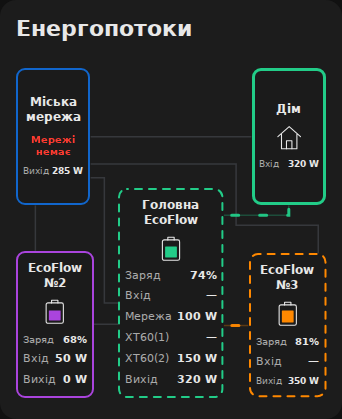
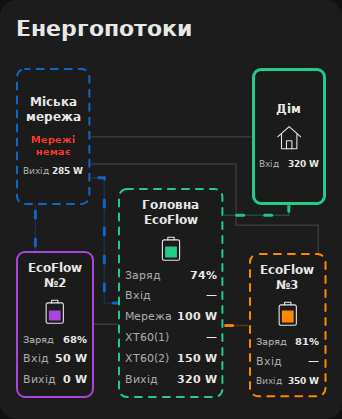
Release 2.0.4: grid sensor controls warning only

diff --git a/suris-ecoflow-flow-card.js b/suris-ecoflow-flow-card.js
@@ -1,8 +1,8 @@
-/* Suris EcoFlow Flow Card v2.0.3 | MIT | No external dependencies. */
+/* Suris EcoFlow Flow Card v2.0.4 | MIT | No external dependencies. */
 (() => {
   'use strict';
   const TAG = 'suris-ecoflow-flow-card';
-  const VERSION = '2.0.3';
+  const VERSION = '2.0.4';
   const NS = 'http://www.w3.org/2000/svg';
   let cardSequence = 0;
   const DEFAULTS = {
@@ -22,16 +22,16 @@
   Object.assign(TEXT.uk, { voltage: 'Напруга' });
   Object.assign(TEXT.en, { voltage: 'Voltage' });
   Object.assign(TEXT.uk, {
-    gridOff: 'Мережі немає', outputSource: 'За виходом головної EcoFlow', gridSource: 'За датчиком наявності мережі',
-    gridHint: 'Датчик необов’язковий. Якщо мережі немає, усередині її блоку блимає червоний напис «Мережі немає». Без датчика попередження приховане.',
-    sourceHint: 'За виходом головної EcoFlow: потужність виходу на дім вище порогу — дім від EcoFlow, нижче або рівна порогу — від мережі. Датчик мережі показує її стан окремо. За датчиком мережі: збережена попередня логіка. Без нього використовується вихід головної станції. Недоступна потужність не визначає джерело.',
+    gridOff: 'Мережі немає',
+    gridHint: 'Датчик необов’язковий. Якщо мережі немає, усередині її блоку блимає червоний напис «Мережі немає». Без датчика попередження приховане. Цей датчик не керує потоками.',
+    sourceHint: 'За виходом головної EcoFlow: потужність виходу на дім вище порогу — дім від EcoFlow, нижче або рівна порогу — від мережі. Датчик мережі керує лише червоним написом та не впливає на потоки. Недоступна потужність не визначає джерело.',
     setup: 'Вибери датчик виходу головної EcoFlow на дім або її загального виходу',
     mainHint: 'Для лінії мережа → головна EcoFlow потрібна окрема потужність AC-входу. Для визначення джерела дому за виходом вибери вихід на дім; загальний вихід підходить, лише якщо станція живить тільки дім.'
   });
   Object.assign(TEXT.en, {
-    gridOff: 'No grid', outputSource: 'Main EcoFlow output', gridSource: 'Grid availability sensor',
-    gridHint: 'The sensor is optional. When grid power is absent, a red No grid message pulses inside its block. Without a sensor the warning stays hidden.',
-    sourceHint: 'Main EcoFlow output: home feed power above the threshold selects EcoFlow; at or below the threshold selects grid. The grid sensor shows its status separately. Grid availability sensor retains the previous source logic; without it, main output is used. An unavailable output leaves the source unknown.',
+    gridOff: 'No grid',
+    gridHint: 'The sensor is optional. When grid power is absent, a red No grid message pulses inside its block. Without a sensor the warning stays hidden. This sensor never controls flows.',
+    sourceHint: 'Main EcoFlow output: home feed power above the threshold selects EcoFlow; at or below the threshold selects grid. The grid sensor only controls the red warning and never affects flows. An unavailable output leaves the source unknown.',
     setup: 'Select the main EcoFlow home feed or total output power sensor',
     mainHint: 'Grid → main EcoFlow requires a separate AC input sensor. For output-based home source detection, select the home feed output; total output is suitable only when the station supplies the home alone.'
   });
@@ -42,7 +42,7 @@
       if (config[key] != null && (typeof config[key] !== 'object' || Array.isArray(config[key]))) throw new Error(`${key} must be an object`);
       result[key] = { ...DEFAULTS[key], ...config[key] };
     }
-    result.home.source_mode ||= result.grid.available_entity ? 'grid' : 'output';
+    delete result.home.source_mode; // Legacy source modes never control flows.
     if (config.consumers != null && !Array.isArray(config.consumers)) throw new Error('Consumers must be a list');
     if ((config.consumers || []).length > 20) throw new Error('Maximum 20 consumers');
     const ids = new Set();
@@ -63,7 +63,6 @@
     const result = draftConfig(config), a = result.appearance;
     result.title ??= DEFAULTS.title;
     result.language = result.language === 'en' ? 'en' : 'uk';
-    if (!['grid', 'output'].includes(result.home.source_mode)) throw new Error('Home source mode must be grid or output');
     for (const key of ['grid', 'auxiliary_1', 'auxiliary_2', 'main', 'home']) result[key].name ||= DEFAULTS[key].name;
     const number = (key) => a[key] == null || a[key] === '' ? DEFAULTS.appearance[key] : Number(a[key]);
     a.threshold = number('threshold'); a.duration = number('duration');
@@ -123,18 +122,12 @@
     const gridAvailability = !c.grid.available_entity ? 'not_configured'
       : usableGrid && String(gridState) === availableState ? 'available'
         : usableGrid && (absentState ? String(gridState) === absentState : true) ? 'absent' : 'unknown';
-    const useGridSource = c.home.source_mode !== 'output' && !!c.grid.available_entity;
-    const source = useGridSource
-      ? gridAvailability === 'available' ? 'grid' : gridAvailability === 'absent' ? 'main' : 'unknown'
-      : feedPower != null && feedPower >= 0 ? positive(feedPower) ? 'main' : 'grid' : 'unknown';
+    const source = feedPower != null && feedPower >= 0 ? positive(feedPower) ? 'main' : 'grid' : 'unknown';
     const gridCharging = [
       p(c.auxiliary_1.grid_charge_power || c.auxiliary_1.input_power),
       p(c.auxiliary_2.grid_charge_power || c.auxiliary_2.input_power),
       main.ac
     ];
-    // Charging can continue while the main station supplies Home in automatic mode.
-    const gridAvailable = useGridSource ? gridAvailability === 'available'
-      : gridAvailability !== 'absent' && (source === 'grid' || positive(p(c.grid.power)) || gridCharging.some(positive));
     let homePower = p(c.home.power);
     let powerOrigin = c.home.power ? 'sensor' : 'unknown';
     if (!c.home.power && source === 'main') {
@@ -153,12 +146,12 @@
       grid_home: homePower, main_home: homePower
     };
     const flows = {
-      grid_auxiliary_1: gridAvailable && positive(flow_power.grid_auxiliary_1),
-      grid_auxiliary_2: gridAvailable && positive(flow_power.grid_auxiliary_2),
-      grid_main: gridAvailable && positive(main.ac),
+      grid_auxiliary_1: positive(flow_power.grid_auxiliary_1),
+      grid_auxiliary_2: positive(flow_power.grid_auxiliary_2),
+      grid_main: positive(main.ac),
       auxiliary_1_main: positive(flow_power.auxiliary_1_main),
       auxiliary_2_main: positive(flow_power.auxiliary_2_main),
-      grid_home: gridAvailable && source === 'grid' && positive(homePower),
+      grid_home: source === 'grid' && positive(homePower),
       main_home: source === 'main' && positive(homePower)
     };
     return { main, auxiliary_1, auxiliary_2, grid: { output: p(c.grid.power), availability: gridAvailability }, home: { power: homePower, voltage: readNumber(states, c.home.voltage), source, power_origin: powerOrigin }, consumers: (c.consumers || []).map(consumer => ({ ...consumer, entity: consumer.power, power: p(consumer.power) })), flows, flow_power };
@@ -328,7 +321,7 @@
         battery.querySelector('.battery-unknown').style.display = known ? 'none' : '';
       }
       const status = this.shadowRoot.querySelector('.status');
-      status.textContent = data.home.source === 'unknown' ? c.home.source_mode !== 'output' && c.grid.available_entity ? text.mismatch : text.setup : '';
+      status.textContent = data.home.source === 'unknown' ? text.setup : '';
       const homeColor = data.home.source === 'unknown' ? 'var(--divider-color,#60656d)' : `var(--flow-${data.home.source})`;
       this.style.setProperty('--flow-home', homeColor); this._nodes.home.style.setProperty('--node-color', homeColor); this._borders.home.style.setProperty('--node-color', homeColor);
       this._renderConsumers(); this._drawPaths(); this._syncFlows();
@@ -499,8 +492,8 @@
     uk: { title: 'Заголовок', language: 'Мова', name: 'Назва', power: 'Потужність', input_power: 'Загальна вхідна потужність', output_power: 'Загальна вихідна потужність', soc: 'Заряд батареї (%)', ac_input_power: 'Потужність входу від міської мережі (AC)', solar_input_power: 'Потужність входу XT60(1) (DC)', solar_input_power_2: 'Потужність входу XT60(2) (DC)', grid_charge_power: 'Потужність заряджання від мережі (необов’язково)', transfer_power: 'Потужність передачі на головну EcoFlow (необов’язково)', home_feed_power: 'Потужність виходу на дім (необов’язково)', available_entity: 'Наявність міської мережі', available_state: 'Стан «мережа є»', source_entity: 'Сутність джерела живлення дому', grid_state: 'Стан «дім від міської мережі»', main_state: 'Стан «дім від головної EcoFlow»', grid_color: 'Колір мережі: рамка та потоки', auxiliary_1_color: 'Колір EcoFlow №2: рамка та потік', auxiliary_2_color: 'Колір EcoFlow №3: рамка та потік', solar_color: 'Колір передачі між станціями', main_color: 'Колір головної EcoFlow: рамка та потік', threshold: 'Поріг активного потоку (Вт)', duration: 'Базовий час руху (с)' },
     en: { title: 'Title', language: 'Language', name: 'Name', power: 'Power', input_power: 'Total input power', output_power: 'Total output power', soc: 'Battery charge (%)', ac_input_power: 'City grid input power (AC)', solar_input_power: 'XT60(1) input power (DC)', solar_input_power_2: 'XT60(2) input power (DC)', grid_charge_power: 'Grid charging power (optional)', transfer_power: 'Transfer power to main EcoFlow (optional)', home_feed_power: 'Output power to home (optional)', available_entity: 'Grid availability', available_state: 'Grid available state', source_entity: 'Home power source entity', grid_state: 'State: home powered by grid', main_state: 'State: home powered by main EcoFlow', grid_color: 'Grid border and flow color', auxiliary_1_color: 'EcoFlow #2 border and flow color', auxiliary_2_color: 'EcoFlow #3 border and flow color', solar_color: 'Station transfer color', main_color: 'Main EcoFlow border and flow color', threshold: 'Active flow threshold (W)', duration: 'Base movement time (s)' }
   };
-  Object.assign(FIELD_LABELS.uk, { voltage: 'Напруга дому (необов’язково)', available_entity: 'Наявність міської мережі (необов’язково)', source_mode: 'Визначення джерела живлення дому' });
-  Object.assign(FIELD_LABELS.en, { voltage: 'Home voltage (optional)', available_entity: 'Grid availability (optional)', source_mode: 'Home source detection' });
+  Object.assign(FIELD_LABELS.uk, { voltage: 'Напруга дому (необов’язково)', available_entity: 'Наявність міської мережі (необов’язково)' });
+  Object.assign(FIELD_LABELS.en, { voltage: 'Home voltage (optional)', available_entity: 'Grid availability (optional)' });
   const entityField = (name, power = true) => ({ name, selector: { entity: power ? { domain: 'sensor' } : {} } });
   const textField = (name) => ({ name, selector: { text: {} } });
   const rgbToHsl = hex => {
@@ -619,7 +612,7 @@
         ['auxiliary_1', c.auxiliary_1.name || DEFAULTS.auxiliary_1.name, [...stationSchema, entityField('grid_charge_power'), entityField('transfer_power')], text.auxHint],
         ['auxiliary_2', c.auxiliary_2.name || DEFAULTS.auxiliary_2.name, [...stationSchema, entityField('grid_charge_power'), entityField('transfer_power')], text.auxHint],
         ['main', text.main, [...stationSchema, entityField('ac_input_power'), entityField('solar_input_power'), entityField('solar_input_power_2'), entityField('home_feed_power')], text.mainHint],
-        ['home', text.home, [textField('name'), { name: 'source_mode', selector: { select: { options: [{ value: 'output', label: text.outputSource }, { value: 'grid', label: text.gridSource }], mode: 'dropdown' } } }, entityField('power'), { name: 'voltage', selector: { entity: { domain: 'sensor', device_class: 'voltage' } } }], `${text.sourceHint} ${text.homeDerived}`],
+        ['home', text.home, [textField('name'), entityField('power'), { name: 'voltage', selector: { entity: { domain: 'sensor', device_class: 'voltage' } } }], `${text.sourceHint} ${text.homeDerived}`],
         ['appearance', c.language === 'en' ? 'Flow appearance' : 'Вигляд потоків', [textField('grid_color'), textField('auxiliary_1_color'), textField('auxiliary_2_color'), textField('main_color'), { name: 'threshold', selector: { number: { min: 0, max: 1000, step: 1, mode: 'box', unit_of_measurement: text.watts } } }, { name: 'duration', selector: { number: { min: .5, max: 20, step: .5, mode: 'box', unit_of_measurement: 's' } } }], `${text.flowHint} ${c.language === 'en' ? 'Open a color below to choose a swatch or mix hue, saturation and brightness. Each source color applies to its border and outgoing flows. Home uses its active source color. Colors: red, green, #ff0000, rgb(255, 0, 0), hsl(120, 100%, 25%). An empty field restores the default color.' : 'Відкрий колір нижче, щоб обрати зразок або змішати відтінок, насиченість і яскравість. Колір джерела застосовується до його рамки та вихідних потоків. Рамка дому має колір активного джерела. Кольори: red, green, #ff0000, rgb(255, 0, 0), hsl(120, 100%, 25%). Порожнє поле повертає типовий колір.'}`]
       ];
       for (const consumer of c.consumers) sections.push([`consumer:${consumer.id}`, consumer.name || text.consumer, [textField('name'), entityField('power'), { name: 'icon', selector: { icon: {} } }, textField('color')], '']);

diff --git a/demo.html b/demo.html
@@ -1,5 +1,5 @@
 <!doctype html>
-<html lang="uk"><head><meta charset="utf-8"><meta name="viewport" content="width=device-width,initial-scale=1"><title>Suris EcoFlow Flow Card 2.0.3 — Demo</title>
+<html lang="uk"><head><meta charset="utf-8"><meta name="viewport" content="width=device-width,initial-scale=1"><title>Suris EcoFlow Flow Card 2.0.4 — Demo</title>
 <style>body{margin:20px auto;padding:0 12px;max-width:1060px;background:#111;color:#eee;font:16px system-ui;--ha-card-background:#1c1c1c;--primary-text-color:#eee;--secondary-text-color:#aaa;--divider-color:#535861}nav{display:flex;gap:8px;flex-wrap:wrap;margin:16px 0}button{background:#222;border:1px solid #666;color:#eee;padding:10px 14px;border-radius:8px;cursor:pointer}button:focus-visible{outline:2px solid #27d9d5}p{color:#aaa;font-size:13px}</style>
 </head><body><nav><button data-mode="main">Дім від EcoFlow</button><button data-mode="aux3">Передача EcoFlow №3</button><button data-mode="grid">Дім від мережі</button><button data-mode="charging">Заряджання від мережі</button><button data-mode="replace">Заміна сильнішим приладом</button><button data-mode="single">Один ряд приладів</button><button data-mode="idle">Прилади вимкнені</button><button data-mode="unknown">Джерело недоступне</button></nav><suris-ecoflow-flow-card></suris-ecoflow-flow-card><p>Демонстраційні показники. Для встановлення відкрий README.md.</p>
 <script src="./suris-ecoflow-flow-card.js"></script><script>

diff --git a/README.md b/README.md
@@ -1,8 +1,8 @@
-# Suris EcoFlow Flow Card 2.0.3
+# Suris EcoFlow Flow Card 2.0.4
 
-[English guide](README_EN.md) · [Завантажити 2.0.3](https://github.com/Suris2009/suris-ecoflow-flow-card/releases/tag/v2.0.3) · [Попередня 0.1.12](https://github.com/Suris2009/suris-ecoflow-flow-card/releases/tag/v0.1.12)
+[English guide](README_EN.md) · [Завантажити 2.0.4](https://github.com/Suris2009/suris-ecoflow-flow-card/releases/tag/v2.0.4) · [Попередня 0.1.12](https://github.com/Suris2009/suris-ecoflow-flow-card/releases/tag/v0.1.12)
 
-**Стабільний випуск 2.0.3.** Оновлення з версії 1 та бет версії 2 зберігає налаштування картки.
+**Стабільний випуск 2.0.4.** Оновлення з версії 1 та бет версії 2 зберігає налаштування картки.
 
 Картка Home Assistant із візуальним редактором сутностей. Міська мережа ліворуч, дім праворуч, головна EcoFlow знизу між двома допоміжними станціями. Зверху — до шести активних індивідуальних споживачів із найбільшою потужністю, без гортання. Висота автоматично зменшується, коли один або обидва ряди не потрібні. Значення потужності містяться у квадратних блоках; на лініях лише рух потоку. Працює локально, без сторонніх бібліотек, CDN та збірки.
 
@@ -40,7 +40,7 @@
 
 1. Відкрий **HACS → ⋮ → Користувацькі репозиторії**.
 2. Додай `https://github.com/Suris2009/suris-ecoflow-flow-card`, тип **Dashboard / Панель огляду** (у старих версіях — **Lovelace / Plugin**).
-3. Знайди **Suris EcoFlow Flow Card** та завантаж **2.0.3**. Якщо картка вже встановлена, відкрий її в HACS і встанови доступне оновлення.
+3. Знайди **Suris EcoFlow Flow Card** та завантаж **2.0.4**. Якщо картка вже встановлена, відкрий її в HACS і встанови доступне оновлення.
 4. Онови сторінку Home Assistant. Якщо ресурс не додано автоматично, додай `/hacsfiles/suris-ecoflow-flow-card/suris-ecoflow-flow-card.js` як **JavaScript module** у ресурсах панелей огляду.
 5. На панелі натисни **Редагувати → Додати картку → Suris EcoFlow Flow Card** і вибери сутності у візуальному редакторі.
 
@@ -50,7 +50,7 @@
 
 1. Скопіюй `suris-ecoflow-flow-card.js` до папки `www` у каталозі конфігурації Home Assistant. Через Studio Code Server це зазвичай `/config/www`; в окремих версіях середовища каталог може відображатися як `/homeassistant/www`. Використовуй той каталог, у якому розташований `configuration.yaml`. Можна скористатися Samba або завантаженням файлу в редакторі. Якщо папку `www` щойно створено вперше, перезапусти Home Assistant.
 2. Відкрий **Налаштування → Панелі огляду → ⋮ → Ресурси → Додати ресурс**. Якщо «Ресурси» не видно, увімкни розширений режим у профілі користувача.
-3. URL: `/local/suris-ecoflow-flow-card.js?v=2.0.3`. Тип: **JavaScript module**.
+3. URL: `/local/suris-ecoflow-flow-card.js?v=2.0.4`. Тип: **JavaScript module**.
 4. Онови сторінку Home Assistant. За потреби очисть кеш інтерфейсу в застосунку.
 5. На панелі огляду натисни **Редагувати → Додати картку**, знайди **Suris EcoFlow Flow Card**.
 6. Вибери сутності у візуальному редакторі. YAML не потрібен.
@@ -91,7 +91,7 @@ consumers:
 
 ## Оновлення з версії 1 або бети та повернення назад
 
-Онови ресурс картки до **2.0.3**, потім перезавантаж інтерфейс Home Assistant. Тип `custom:suris-ecoflow-flow-card` не змінюється; назви, сутності, кольори та швидкість станцій зберігаються. Не створюй нову картку і не додавай другий JS-ресурс. Після оновлення з версії 1 додай прилади через редактор. Якщо оновлюєшся з бети версії 2, уже налаштовані прилади також зберігаються.
+Онови ресурс картки до **2.0.4**, потім перезавантаж інтерфейс Home Assistant. Тип `custom:suris-ecoflow-flow-card` не змінюється; назви, сутності, кольори та швидкість станцій зберігаються. Не створюй нову картку і не додавай другий JS-ресурс. Після оновлення з версії 1 додай прилади через редактор. Якщо оновлюєшся з бети версії 2, уже налаштовані прилади також зберігаються.
 
 Щоб повернутися до попередньої версії 1, збережи копію YAML картки й установи **0.1.12** через HACS або заміни той самий JS-файл файлом версії 1. Перезавантаж інтерфейс. Версія 1 не відображає список споживачів; налаштування станцій сумісні.
 
@@ -106,17 +106,17 @@ consumers:
 
 Щоб показувати напругу дому, вибери **Напруга дому (необов’язково)** у розділі **Дім** візуального редактора. Рядок **Напруга** з’явиться під **Вхід**, у V. Без вибраного датчика рядок прихований; недоступне значення показується як `—`. Напруга береться з цього датчика, а не обчислюється з даних мережі чи батареї. У YAML: `home.voltage: sensor.home_voltage`.
 
-У розділі **Дім → Визначення джерела живлення дому** вибери **За виходом головної EcoFlow**, щоб визначати джерело незалежно від датчика мережі. Вихід на дім вище порогу потоку означає живлення від EcoFlow; доступне невід’ємне значення нижче або рівне порогу — від мережі. Якщо станція живить також інші навантаження, вибери окрему **Потужність виходу на дім** у блоці головної EcoFlow. Інакше використовується її загальний вихід. Недоступна, некоректна або від’ємна потужність залишає джерело невідомим. Це визначення за потужністю, а не вимірювання стану перемикача.
+Джерело дому автоматично визначається за виходом головної EcoFlow, незалежно від датчика мережі. Вихід на дім вище порогу потоку означає живлення від EcoFlow; доступне невід’ємне значення нижче або рівне порогу — від мережі. Якщо станція живить також інші навантаження, вибери окрему **Потужність виходу на дім** у блоці головної EcoFlow. Інакше використовується її загальний вихід. Недоступна, некоректна або від’ємна потужність залишає джерело невідомим. Це визначення за потужністю, а не вимірювання стану перемикача.
 
-Режим **За датчиком наявності мережі** зберігає попередню логіку: стан «мережа є» (`on` за замовчуванням) означає живлення від мережі; протилежний двійковий стан — від EcoFlow. Невідомий або не розпізнаний стан зупиняє обидві лінії дому й заряджання від мережі. Наявні конфігурації з датчиком мережі зберігають цей режим. Без вибраного датчика використовується вихід головної станції. Старі поля `home.source_entity`, `home.grid_state` та `home.main_state` ігноруються.
+Після оновлення наявні конфігурації автоматично використовують потужність виходу головної EcoFlow. Перемикати режим вручну не потрібно. Старі поля `home.source_mode`, `home.source_entity`, `home.grid_state` та `home.main_state` ігноруються; вибір режиму прибрано з редактора.
 
-Необов’язковий датчик **Наявність міської мережі** також керує написом у квадраті мережі. Коли світла немає, замість значка опори блимає червоний напис **Мережі немає**. Назва й потужність залишаються. При поверненні світла, очищенні датчика або невідомому стані напис прихований. Якщо ввімкнено зменшення руху, напис постійний. У режимі за виходом EcoFlow цей датчик не визначає джерело дому; підтверджене зникнення мережі зупиняє її потоки заряджання.
+Необов’язковий датчик **Наявність міської мережі** керує лише написом у квадраті мережі. Коли світла немає, замість значка опори блимає червоний напис **Мережі немає**. Назва й потужність залишаються. При поверненні світла, очищенні датчика або невідомому стані напис прихований. Якщо ввімкнено зменшення руху, напис постійний. Будь-який стан цього датчика не впливає на жоден потік. Заряджання станцій і передача визначаються за їхніми показниками потужності.
 
 Назви всіх п’яти блоків змінюються в редакторі. Мови редактора: українська та англійська. Окремі кольори мережі, кожної допоміжної та головної EcoFlow, поріг активної потужності та базовий час руху штрихів також задаються через інтерфейс.
 
 ## Якщо окремого датчика споживання дому немає
 
-Залиш поле **Вхід дому (необов’язково)** порожнім. Вибери датчик загальної потужності міської мережі, входи двох допоміжних станцій, окремий AC-вхід головної станції. Датчик наявності мережі необов’язковий; джерело можна визначати за виходом головної EcoFlow.
+Залиш поле **Вхід дому (необов’язково)** порожнім. Вибери датчик загальної потужності міської мережі, входи двох допоміжних станцій, окремий AC-вхід головної станції. Датчик наявності мережі необов’язковий; джерело визначається за виходом головної EcoFlow.
 
 - Дім від міської мережі: **розрахунковий вхід дому = загальна потужність мережі − заряджання EcoFlow №2 − заряджання EcoFlow №3 − AC-вхід головної EcoFlow**.
 - Дім від головної EcoFlow: використовується окремий вихід на дім, якщо його вибрано, або загальний вихід головної станції.
@@ -124,7 +124,7 @@ consumers:
 
 Для розрахунку від мережі потрібна доступна загальна потужність міської мережі. Не вибрані, відсутні або недоступні входи станцій вважаються нулем лише в розрахунку дому. Коли EcoFlow вимкнені, дім споживає всю потужність мережі. Коли станції заряджаються, їхні доступні додатні входи віднімаються. На самих блоках недоступні показники залишаються —. Якщо станція заряджається, але її телеметрія недоступна, оцінка дому може бути завищена. Від’ємний залишок при різночасових оновленнях показників обмежується нулем. Вхід дому від мережі залишається розрахунковим: датчики станцій і лічильник мережі можуть оновлюватися в різний час і вимірювати потужність на різних ділянках.
 
-Якщо вибраний датчик споживання дому доступний, використовується його значення. Якщо він недоступний, показується —. Для автоматичного розрахунку потрібно саме очистити це поле. Джерело дому визначається відповідно до вибраного режиму: за виходом головної EcoFlow або датчиком наявності мережі.
+Якщо вибраний датчик споживання дому доступний, використовується його значення. Якщо він недоступний, показується —. Для автоматичного розрахунку потрібно саме очистити це поле. Джерело дому завжди визначається за виходом головної EcoFlow.
 
 ## Логіка потоків
 
@@ -136,7 +136,7 @@ consumers:
 | Мережа → дім | Джерело дому — мережа і споживання перевищує поріг |
 | Головна EcoFlow → дім | Джерело дому — головна станція і споживання перевищує поріг. Якщо датчик споживання не вибрано, для анімації використовується вихід головної станції на дім або її загальний вихід |
 
-У режимі за датчиком мережі її потоки потребують стану «мережа є». У режимі за виходом головної EcoFlow заряджання від мережі визначається за додатними показниками потужності, але підтверджена відсутність мережі вимикає ці потоки. Джерело дому визначається окремо за виходом станції.
+Заряджання від мережі визначається за потужністю входу кожної станції. Датчик наявності мережі керує лише червоним попередженням та не впливає на потоки. Джерело дому визначається за виходом головної станції.
 
 Головна EcoFlow показує **XT60(1)** та **XT60(2)** окремо. Вибери сутність для кожного порту в її розділі редактора. Ці порти не прив’язуються до EcoFlow №2 чи №3 й не керують анімацією передачі між станціями. Допоміжні станції працюють по черзі: лінія активна за власною вихідною потужністю.
 

diff --git a/README_EN.md b/README_EN.md
@@ -1,8 +1,8 @@
-# Suris EcoFlow Flow Card 2.0.3
+# Suris EcoFlow Flow Card 2.0.4
 
-[Українська інструкція](README.md) · [Download 2.0.3](https://github.com/Suris2009/suris-ecoflow-flow-card/releases/tag/v2.0.3) · [Previous 0.1.12](https://github.com/Suris2009/suris-ecoflow-flow-card/releases/tag/v0.1.12)
+[Українська інструкція](README.md) · [Download 2.0.4](https://github.com/Suris2009/suris-ecoflow-flow-card/releases/tag/v2.0.4) · [Previous 0.1.12](https://github.com/Suris2009/suris-ecoflow-flow-card/releases/tag/v0.1.12)
 
-**Stable release 2.0.3.** Upgrading from version 1 or a version 2 beta preserves the card configuration.
+**Stable release 2.0.4.** Upgrading from version 1 or a version 2 beta preserves the card configuration.
 
 A Home Assistant dashboard card with a visual entity editor. City grid is on the left, home on the right, and the main EcoFlow sits between the two auxiliary stations at the bottom. Up to six active home consumers appear above them, without scrolling. The card automatically shrinks when one or both consumer rows are unused. Power readings stay inside the blocks; lines show only moving flow.
 
@@ -28,7 +28,7 @@ As devices switch on or off, the card resizes automatically. A single row moves 
 
 1. Open **HACS → ⋮ → Custom repositories**.
 2. Add `https://github.com/Suris2009/suris-ecoflow-flow-card`, category **Dashboard** (Lovelace / Plugin in older versions).
-3. Download **2.0.3**. If the card is already installed, open its HACS entry and install the available update.
+3. Download **2.0.4**. If the card is already installed, open its HACS entry and install the available update.
 4. Reload the Home Assistant frontend. If HACS did not add the resource, add `/hacsfiles/suris-ecoflow-flow-card/suris-ecoflow-flow-card.js` as a **JavaScript module** in dashboard resources.
 5. Open **Edit dashboard → Add card → Suris EcoFlow Flow Card**. Choose your entities in the visual editor. YAML is optional.
 
@@ -36,9 +36,9 @@ This repository is added as a custom HACS repository; inclusion in the default c
 
 ## Manual installation
 
-1. Download `suris-ecoflow-flow-card.js` from the 2.0.3 release. Put it in the `www` folder beside your Home Assistant `configuration.yaml`, commonly `/config/www`. If you just created `www` for the first time, restart Home Assistant.
+1. Download `suris-ecoflow-flow-card.js` from the 2.0.4 release. Put it in the `www` folder beside your Home Assistant `configuration.yaml`, commonly `/config/www`. If you just created `www` for the first time, restart Home Assistant.
 2. Open **Settings → Dashboards → ⋮ → Resources → Add resource**. Enable Advanced mode in your user profile if Resources is hidden.
-3. URL: `/local/suris-ecoflow-flow-card.js?v=2.0.3`; type: **JavaScript module**.
+3. URL: `/local/suris-ecoflow-flow-card.js?v=2.0.4`; type: **JavaScript module**.
 4. Reload the frontend, then add and configure the card through the visual editor. Clear the frontend cache if the old version remains visible.
 
 ## Configure the stations and home
@@ -52,11 +52,11 @@ This repository is added as a custom HACS repository; inclusion in the default c
 
 To show the house voltage, select **Home voltage (optional)** in the **Home** section of the visual editor. The **Voltage** row appears below **Input**, in V. Without a selected sensor the row stays hidden; an unavailable reading shows `—`. Voltage is read from that sensor, not inferred from the grid or battery. In YAML, set `home.voltage: sensor.home_voltage`.
 
-In **Home → Home source detection**, choose **Main EcoFlow output** to select the home source independently of the grid status sensor. Output power above the flow threshold selects main EcoFlow; a valid non-negative reading at or below the threshold selects grid. Select the dedicated **Output power to home** in Main EcoFlow when other loads use the station; otherwise its total output is used. An unavailable, invalid or negative output leaves the home source unknown and stops both home supply lines. This is an inference from output power, not a measurement of the transfer switch.
+The home source is automatically selected from main EcoFlow output, independently of the grid status sensor. Output power above the flow threshold selects main EcoFlow; a valid non-negative reading at or below the threshold selects grid. Select the dedicated **Output power to home** in Main EcoFlow when other loads use the station; otherwise its total output is used. An unavailable, invalid or negative output leaves the home source unknown and stops both home supply lines. This is an inference from output power, not a measurement of the transfer switch.
 
-**Grid availability sensor** mode retains the previous source logic: the configured available state selects grid, the opposite binary state selects main, and an unknown or unrecognized state stops both home supply and grid charging flows. Existing configurations with a grid sensor retain this mode. Without a selected grid sensor the card uses main output automatically.
+Existing configurations automatically use main EcoFlow output after updating; no manual mode change is needed. Legacy `home.source_mode`, `home.source_entity`, `home.grid_state` and `home.main_state` fields are ignored. The source-mode selector has been removed.
 
-The optional **Grid availability** sensor also controls the indicator inside the city grid block. When it reports an outage, a red **No grid** label pulses in place of the tower icon. The name and power reading remain visible. It disappears when grid power returns, the sensor is cleared or its state is unknown. With reduced motion the label stays steady. In Main EcoFlow output mode, this sensor does not select the home source; a confirmed outage still stops grid charging flows.
+The optional **Grid availability** sensor only controls the indicator inside the city grid block. When it reports an outage, a red **No grid** label pulses in place of the tower icon. The name and power reading remain visible. It disappears when grid power returns, the sensor is cleared or its state is unknown. With reduced motion the label stays steady. No state of this sensor affects any flow. Station charging and transfers use their own power readings.
 
 Without a home sensor, the card calculates **home grid input = total grid power − auxiliary 1 grid charging − auxiliary 2 grid charging − main AC input**, bounded at zero. Auxiliary charging uses its dedicated charging sensor when selected, otherwise total input. Missing or unavailable charging readings count as zero in this calculation, so an offline station that is actually charging can overestimate home input. When the stations are off, home receives the entire grid reading. Example: grid 1000 W minus station charging of 100, 200 and 300 W gives home 400 W. The meters may update at different times, so this is a calculated reading.
 
@@ -120,7 +120,7 @@ All power rows stay on one line. Values below 1000 W use W; values from 1000 W u
 
 ## Upgrade from version 1 or a beta, or roll back
 
-Update the same resource to **2.0.3** and reload the frontend. The card type remains `custom:suris-ecoflow-flow-card`. Existing station entities, names, colors and flow settings are retained. When upgrading from version 1, add consumers in the editor; none are added automatically. Existing consumer settings from version 2 betas are retained. Without active consumers, the card shrinks automatically. Do not add a duplicate resource or recreate the card.
+Update the same resource to **2.0.4** and reload the frontend. The card type remains `custom:suris-ecoflow-flow-card`. Existing station entities, names, colors and flow settings are retained. When upgrading from version 1, add consumers in the editor; none are added automatically. Existing consumer settings from version 2 betas are retained. Without active consumers, the card shrinks automatically. Do not add a duplicate resource or recreate the card.
 
 To roll back, save a copy of the card YAML, install **0.1.12** through HACS or replace the same JS file with the version 1 asset, and reload the frontend. Version 1 does not display consumers; station settings remain compatible.
 
@@ -130,7 +130,7 @@ To roll back, save a copy of the card YAML, install **0.1.12** through HACS or r
 | --- | --- |
 | Consumer not visible | Power sensor selected, available reading above the threshold, and within the six strongest |
 | Wrong consumer color | Enter a valid CSS color without quotes in the visual editor; use quotes for HEX in YAML |
-| No grid or home supply line | Check Home source detection: main home output sensor, or the optional grid sensor and its raw available state; corresponding power exceeds the threshold |
+| No grid or home supply line | Check the main home output sensor and corresponding power readings; the grid availability sensor only controls the warning |
 | Home differs from meter | Home excludes station charging; unavailable charging sensors count as zero; meter updates may differ in time |
 | Main Input shows `—` | Select total input, or make every selected individual input sensor available |
 | Old layout after upgrade | One resource only, correct downloaded version, frontend reloaded / cache cleared |

diff --git a/CHANGELOG.md b/CHANGELOG.md
@@ -1,5 +1,12 @@
 # Changelog
 
+## 2.0.4 — Stable
+
+- Remove grid availability from all flow decisions, including existing configurations and saved legacy source modes. The sensor only controls the red outage warning inside the city grid block.
+- Determine Home supply from the main station home feed or total output; determine station charging and transfer flows from their own power readings.
+- Remove the source-mode selector. No manual mode change is required after updating.
+- Verify unchanged flows across every grid indicator state, with main and grid Home supply, plus editor migration and responsive warning text.
+
 ## 2.0.3 — Stable
 
 - Make the grid availability sensor optional. Without it, detect the home source from the main station home feed or total output power.
